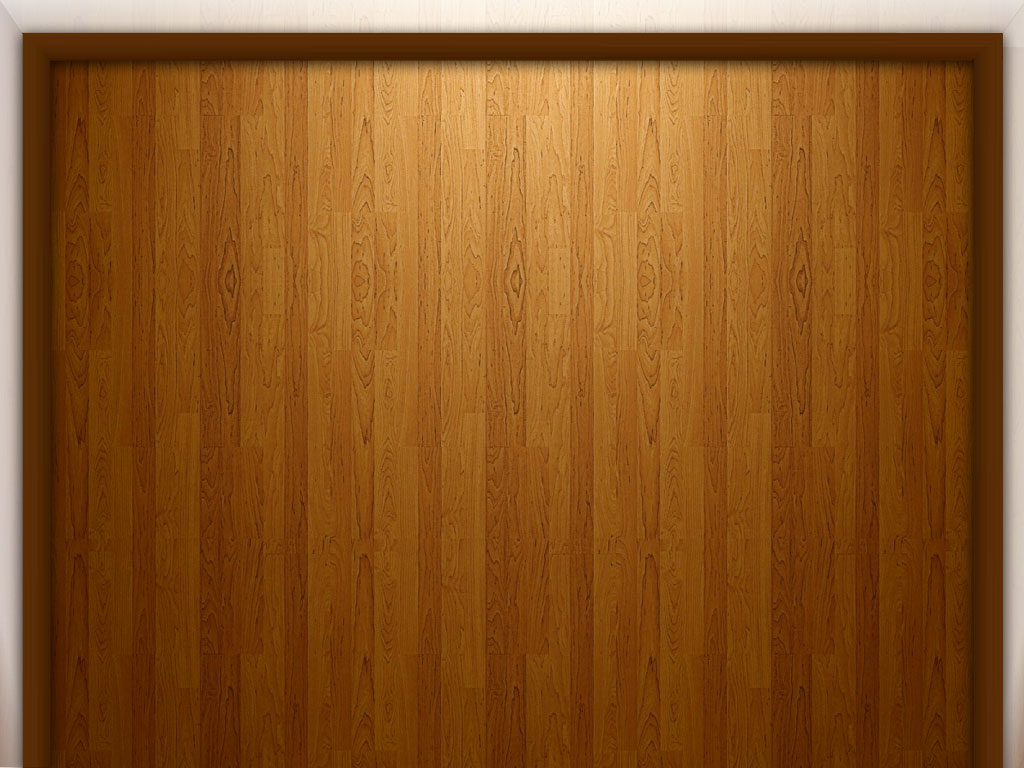
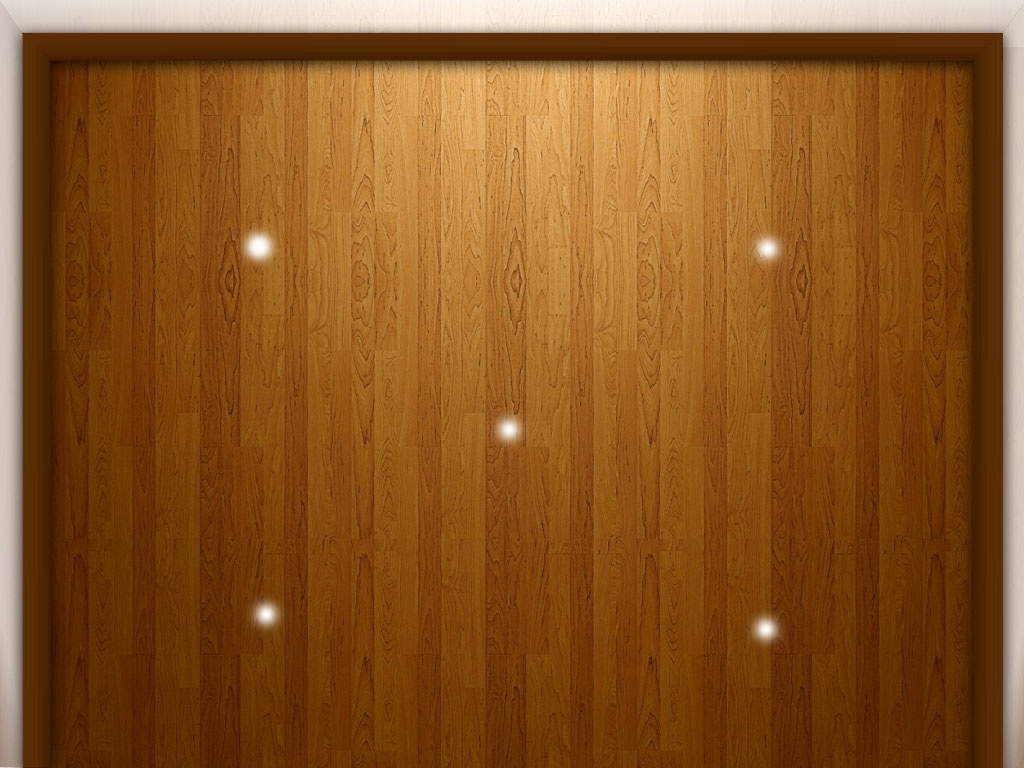
floor view uses set points

diff --git a/Mixtape/PlaylistPostionGenerator.m b/Mixtape/PlaylistPostionGenerator.m
@@ -1,0 +1,72 @@
+//
+//  PlaylistPostionGenerator.m
+//  Mixtape
+//
+//  Created by orta therox on 26/11/2011.
+//  Copyright (c) 2011 http://ortatherox.com. All rights reserved.
+//
+
+#import "PlaylistPostionGenerator.h"
+#import "MixtapeAppDelegate.h"
+#import "AlbumRef.h"
+
+@implementation PlaylistPostionGenerator
+
++ (NSArray*)currentCenterPoints {
+    // X - Y
+    // 1 - (516 - 422)
+    // 2 - (300 - 420) - ( 710 -420 )
+    // 3 - (295 - 337 ) - 512/506 - 770 -336
+    // 4 - 300/324  - 720/334
+    // 5 - 250/259 - 765/259 - 508/431  - 250/618 - 759/618
+    
+    MixtapeAppDelegate * appDelegate = (MixtapeAppDelegate *)[[UIApplication sharedApplication] delegate];
+    NSArray *points;
+    
+    if ( [[UIDevice currentDevice] userInterfaceIdiom] == UIUserInterfaceIdiomPad ){
+        
+        switch ([appDelegate.playlists count]) {
+            case 1:
+                points = [NSArray arrayWithObject: [[AlbumRef alloc] refWithX:516 y:422 andScale:1]];
+                break;
+                
+            case 2:
+                points = [NSArray arrayWithObjects: 
+                          [[AlbumRef alloc] refWithX:300 y:422 andScale:1],
+                          [[AlbumRef alloc] refWithX:710 y:422 andScale:1]
+                          , nil];
+                break;
+                
+            case 3:
+                points = [NSArray arrayWithObjects: 
+                          [[AlbumRef alloc] refWithX:295 y:337 andScale:1],
+                          [[AlbumRef alloc] refWithX:512 y:506 andScale:1],
+                          [[AlbumRef alloc] refWithX:770 y:337 andScale:1]
+                          , nil];
+                break;
+                
+            case 4:
+                points = [NSArray arrayWithObjects: 
+                          [[AlbumRef alloc] refWithX:300 y:324 andScale:1],
+                          [[AlbumRef alloc] refWithX:720 y:334 andScale:1],
+                          [[AlbumRef alloc] refWithX:720 y:618 andScale:1],
+                          [[AlbumRef alloc] refWithX:320 y:618 andScale:1]
+                          , nil];
+                break;
+                
+            case 5:
+                points = [NSArray arrayWithObjects: 
+                          [[AlbumRef alloc] refWithX:250 y:259 andScale:1],
+                          [[AlbumRef alloc] refWithX:765 y:259 andScale:1],
+                          [[AlbumRef alloc] refWithX:508 y:431 andScale:1],
+                          [[AlbumRef alloc] refWithX:250 y:618 andScale:1],
+                          [[AlbumRef alloc] refWithX:759 y:618 andScale:1]
+                          , nil];
+                break;    
+        }
+        return points;
+    }
+    return nil;
+}
+
+@end

diff --git a/Mixtape/LayoutController.m b/Mixtape/LayoutController.m
@@ -13,6 +13,8 @@
 #import <QuartzCore/QuartzCore.h>
 #import "AudioController.h"
 #import "Constants.h"
+#import "AlbumRef.h"
+#import "PlaylistPostionGenerator.h"
 
 enum {
     LayoutsFloorView = 1,
@@ -27,6 +29,8 @@ enum {
 - (void)moveToCurrentTrack;
 - (int)currentPlaylistSelectionIndex;
 - (void)setCurrentPlaylistSeletionIndex:(int)index;
+
+- (NSArray*)currentCenterPoints;
 
 - (BOOL)isIPhone;
 - (BOOL)isPortrait;
@@ -48,6 +52,7 @@ enum {
     self.playlistSelectionIndex = [NSMutableArray array];
     _playlistLayer = [[CALayer layer] retain];
     [canvas.layer addSublayer:_playlistLayer];
+    centerPoints = [PlaylistPostionGenerator currentCenterPoints];
     
     [[UIDevice currentDevice] beginGeneratingDeviceOrientationNotifications];
     [[NSNotificationCenter defaultCenter] addObserver:self
@@ -278,15 +283,13 @@ enum {
     
     for (int i = 0; i < [self.layers count]; i++) {
         NSMutableArray * playlist = [self.layers objectAtIndex:i];
-        
-        float x_center = ( canvas.frame.size.width / [self.layers count] ) * (i + 1) - ( ORArtworkIpadWidth / 2 ); 
-        
+                
         PlaylistTitleLayer * label = [self.titleLayers objectAtIndex:i];
         [label turnToLabel];
-        label.position = CGPointMake( x_center + 80 + random() % 40, 280);
+        label.position = [[centerPoints objectAtIndex:i] point];
         
         CALayer * wrapperLayer = [self.playlistWrapperLayers objectAtIndex:i];
-        [wrapperLayer setPosition: CGPointMake( (random() % 20) + x_center, (random() % 20) + 531)];
+        [wrapperLayer setPosition: [[centerPoints objectAtIndex:i] point]];
         
         for (int j = [playlist count] - 1; j > -1 ; j--) {
             TrackLayer *layer = [playlist objectAtIndex:j];
@@ -315,5 +318,7 @@ enum {
 - (BOOL)isIPhone {
     return ( [[UIDevice currentDevice] userInterfaceIdiom] == UIUserInterfaceIdiomPhone );
 }
+
+
 
 @end

diff --git a/Mixtape/models/AlbumRef.m b/Mixtape/models/AlbumRef.m
@@ -1,0 +1,22 @@
+//
+//  AlbumRef.m
+//  Mixtape
+//
+//  Created by orta therox on 26/11/2011.
+//  Copyright (c) 2011 http://ortatherox.com. All rights reserved.
+//
+
+#import "AlbumRef.h"
+
+@implementation AlbumRef
+
+@synthesize point, scale;
+
+- (id)refWithX: (float)x y:(float)y andScale:(float)aScale {
+    self = [super init];
+    self.point = CGPointMake(x, y);
+    self.scale = aScale;
+    return self;
+}
+
+@end

diff --git a/Mixtape/models/AlbumRef.h b/Mixtape/models/AlbumRef.h
@@ -1,0 +1,18 @@
+//
+//  AlbumRef.h
+//  Mixtape
+//
+//  Created by orta therox on 26/11/2011.
+//  Copyright (c) 2011 http://ortatherox.com. All rights reserved.
+//
+
+#import <Foundation/Foundation.h>
+
+@interface AlbumRef : NSObject
+
+@property CGPoint point;
+@property float scale;
+
+- (id)refWithX: (float)x y:(float)y andScale:(float)aScale;
+
+@end

diff --git a/Mixtape/PlaylistPostionGenerator.h b/Mixtape/PlaylistPostionGenerator.h
@@ -1,0 +1,15 @@
+//
+//  PlaylistPostionGenerator.h
+//  Mixtape
+//
+//  Created by orta therox on 26/11/2011.
+//  Copyright (c) 2011 http://ortatherox.com. All rights reserved.
+//
+
+#import <Foundation/Foundation.h>
+
+@interface PlaylistPostionGenerator : NSObject
+
++ (NSArray*)currentCenterPoints;
+
+@end

diff --git a/Mixtape/LayoutController.h b/Mixtape/LayoutController.h
@@ -31,7 +31,7 @@
     CATextLayer *songNameLayer;
     CATextLayer *songArtistLayer;
     
-    
+    NSArray * centerPoints;
 }
 
 -(void)setupAlbumArtwork;
